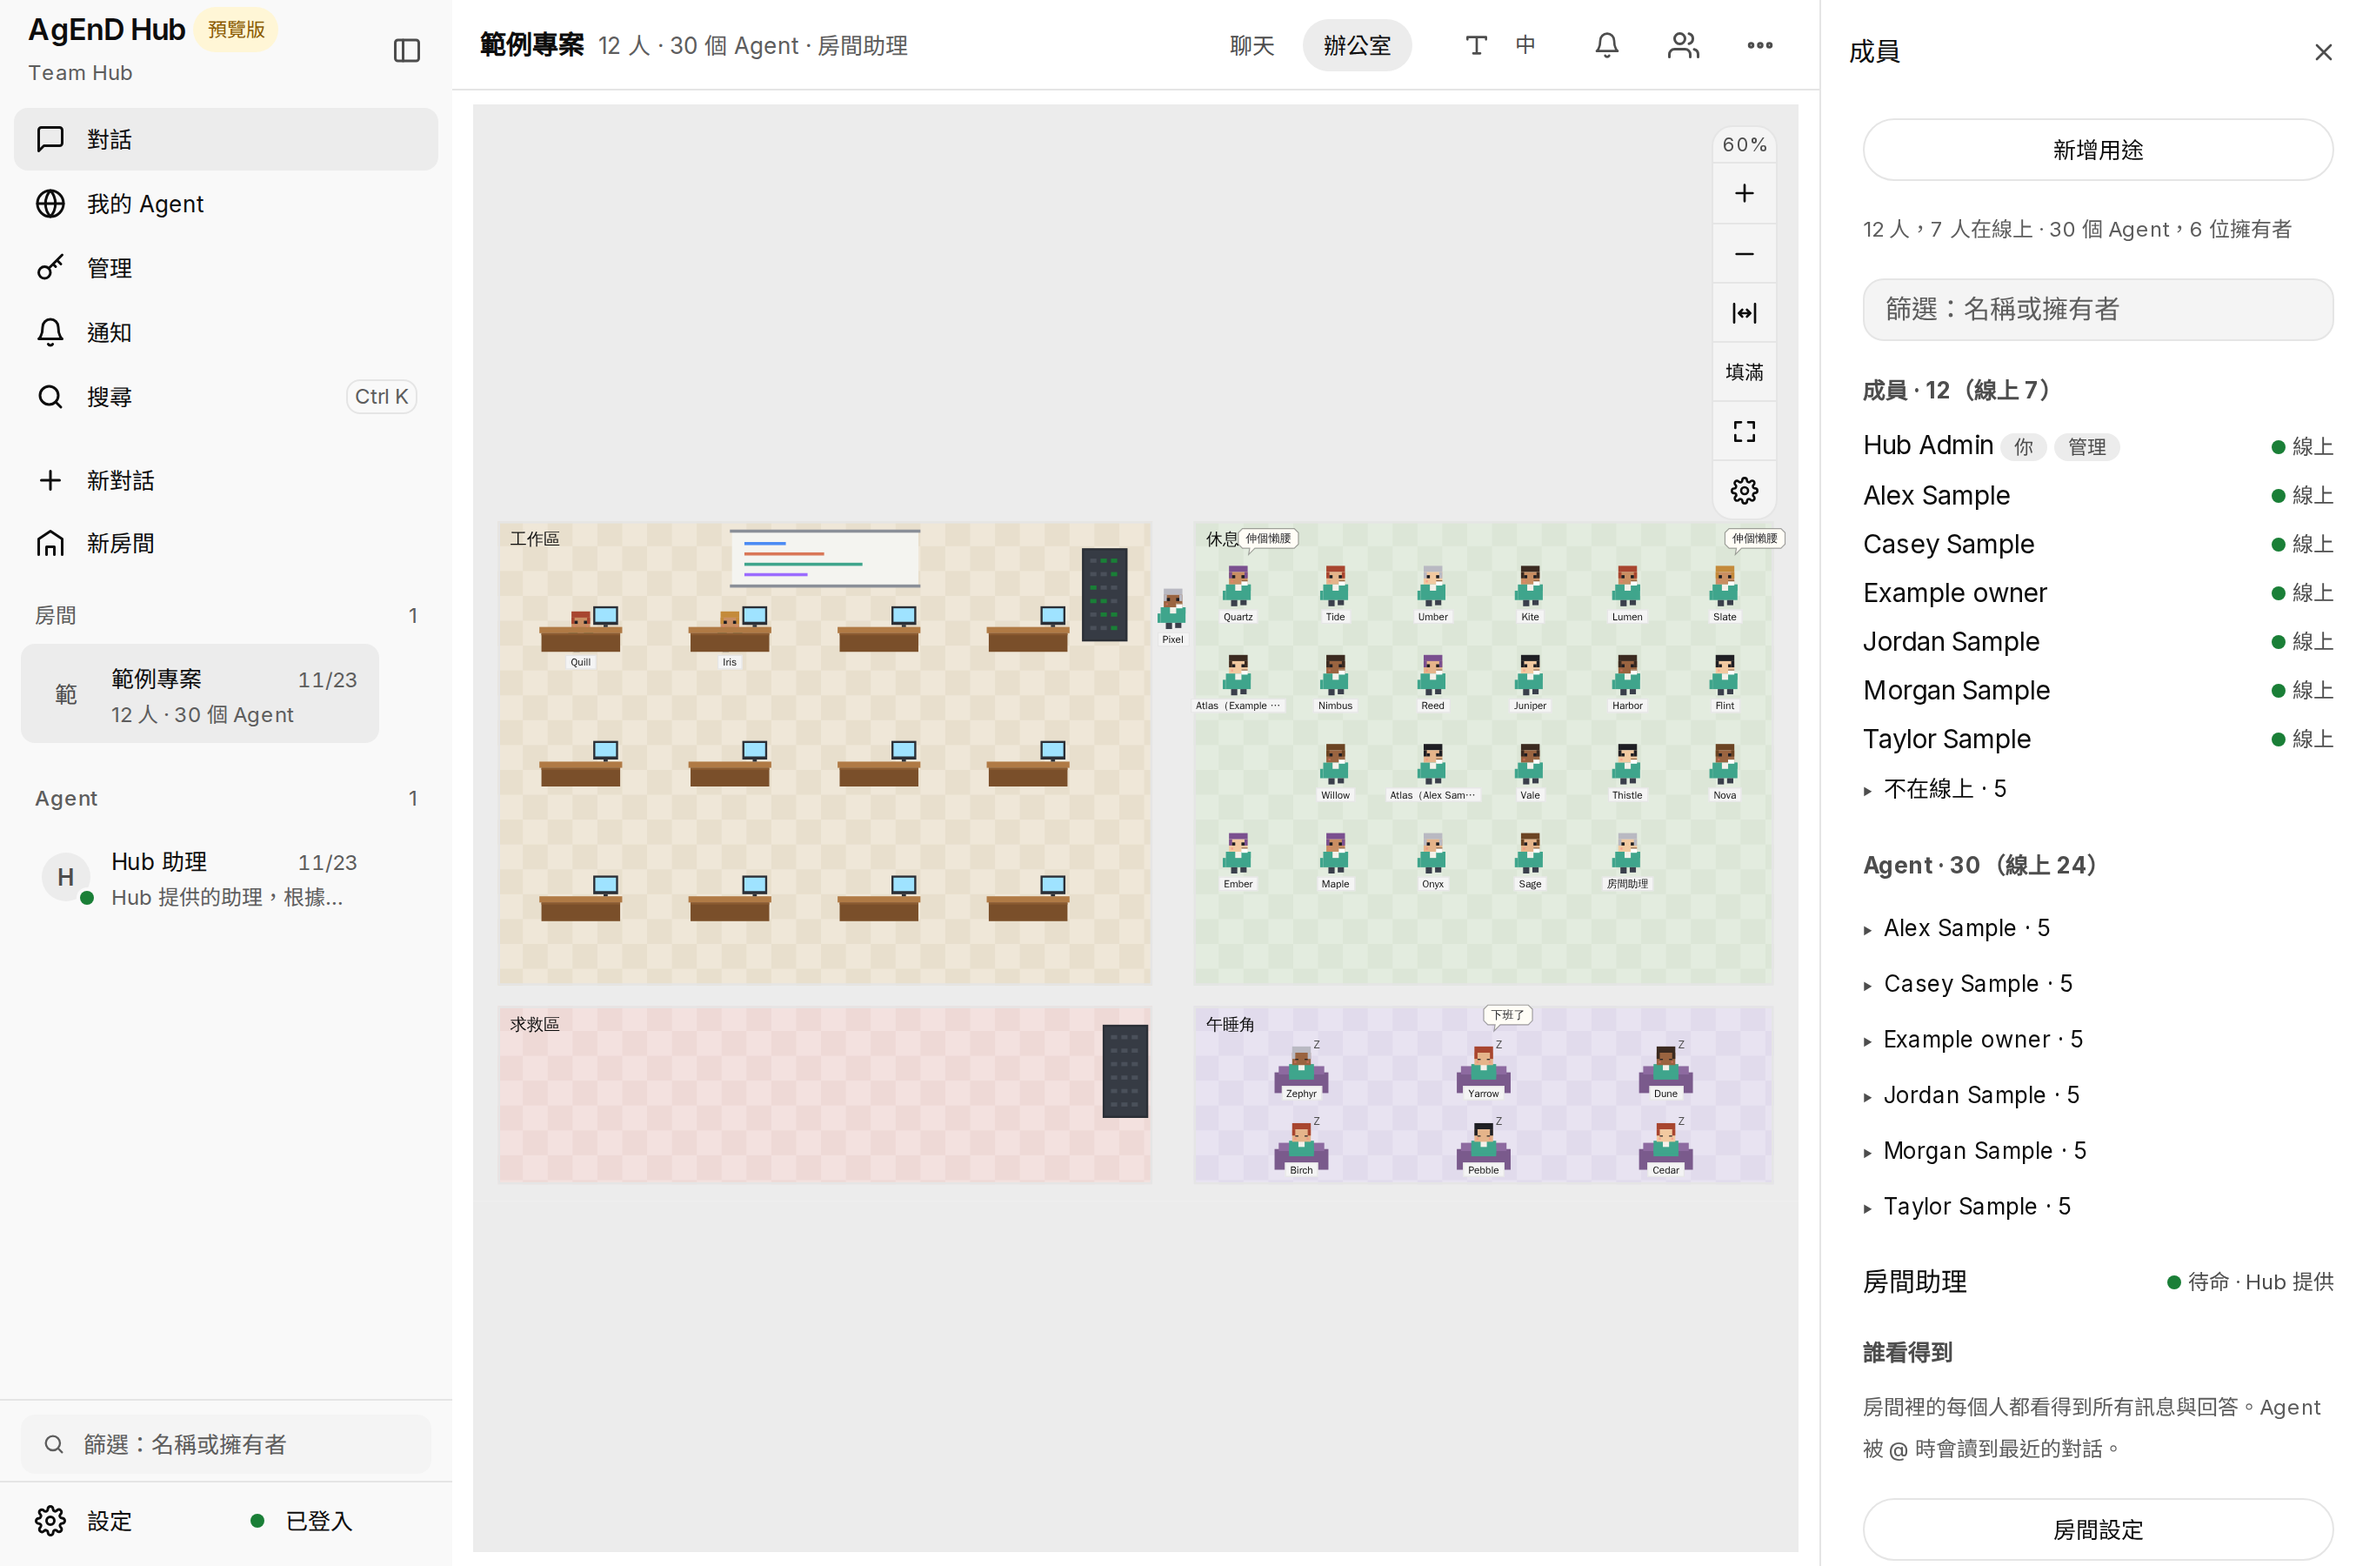
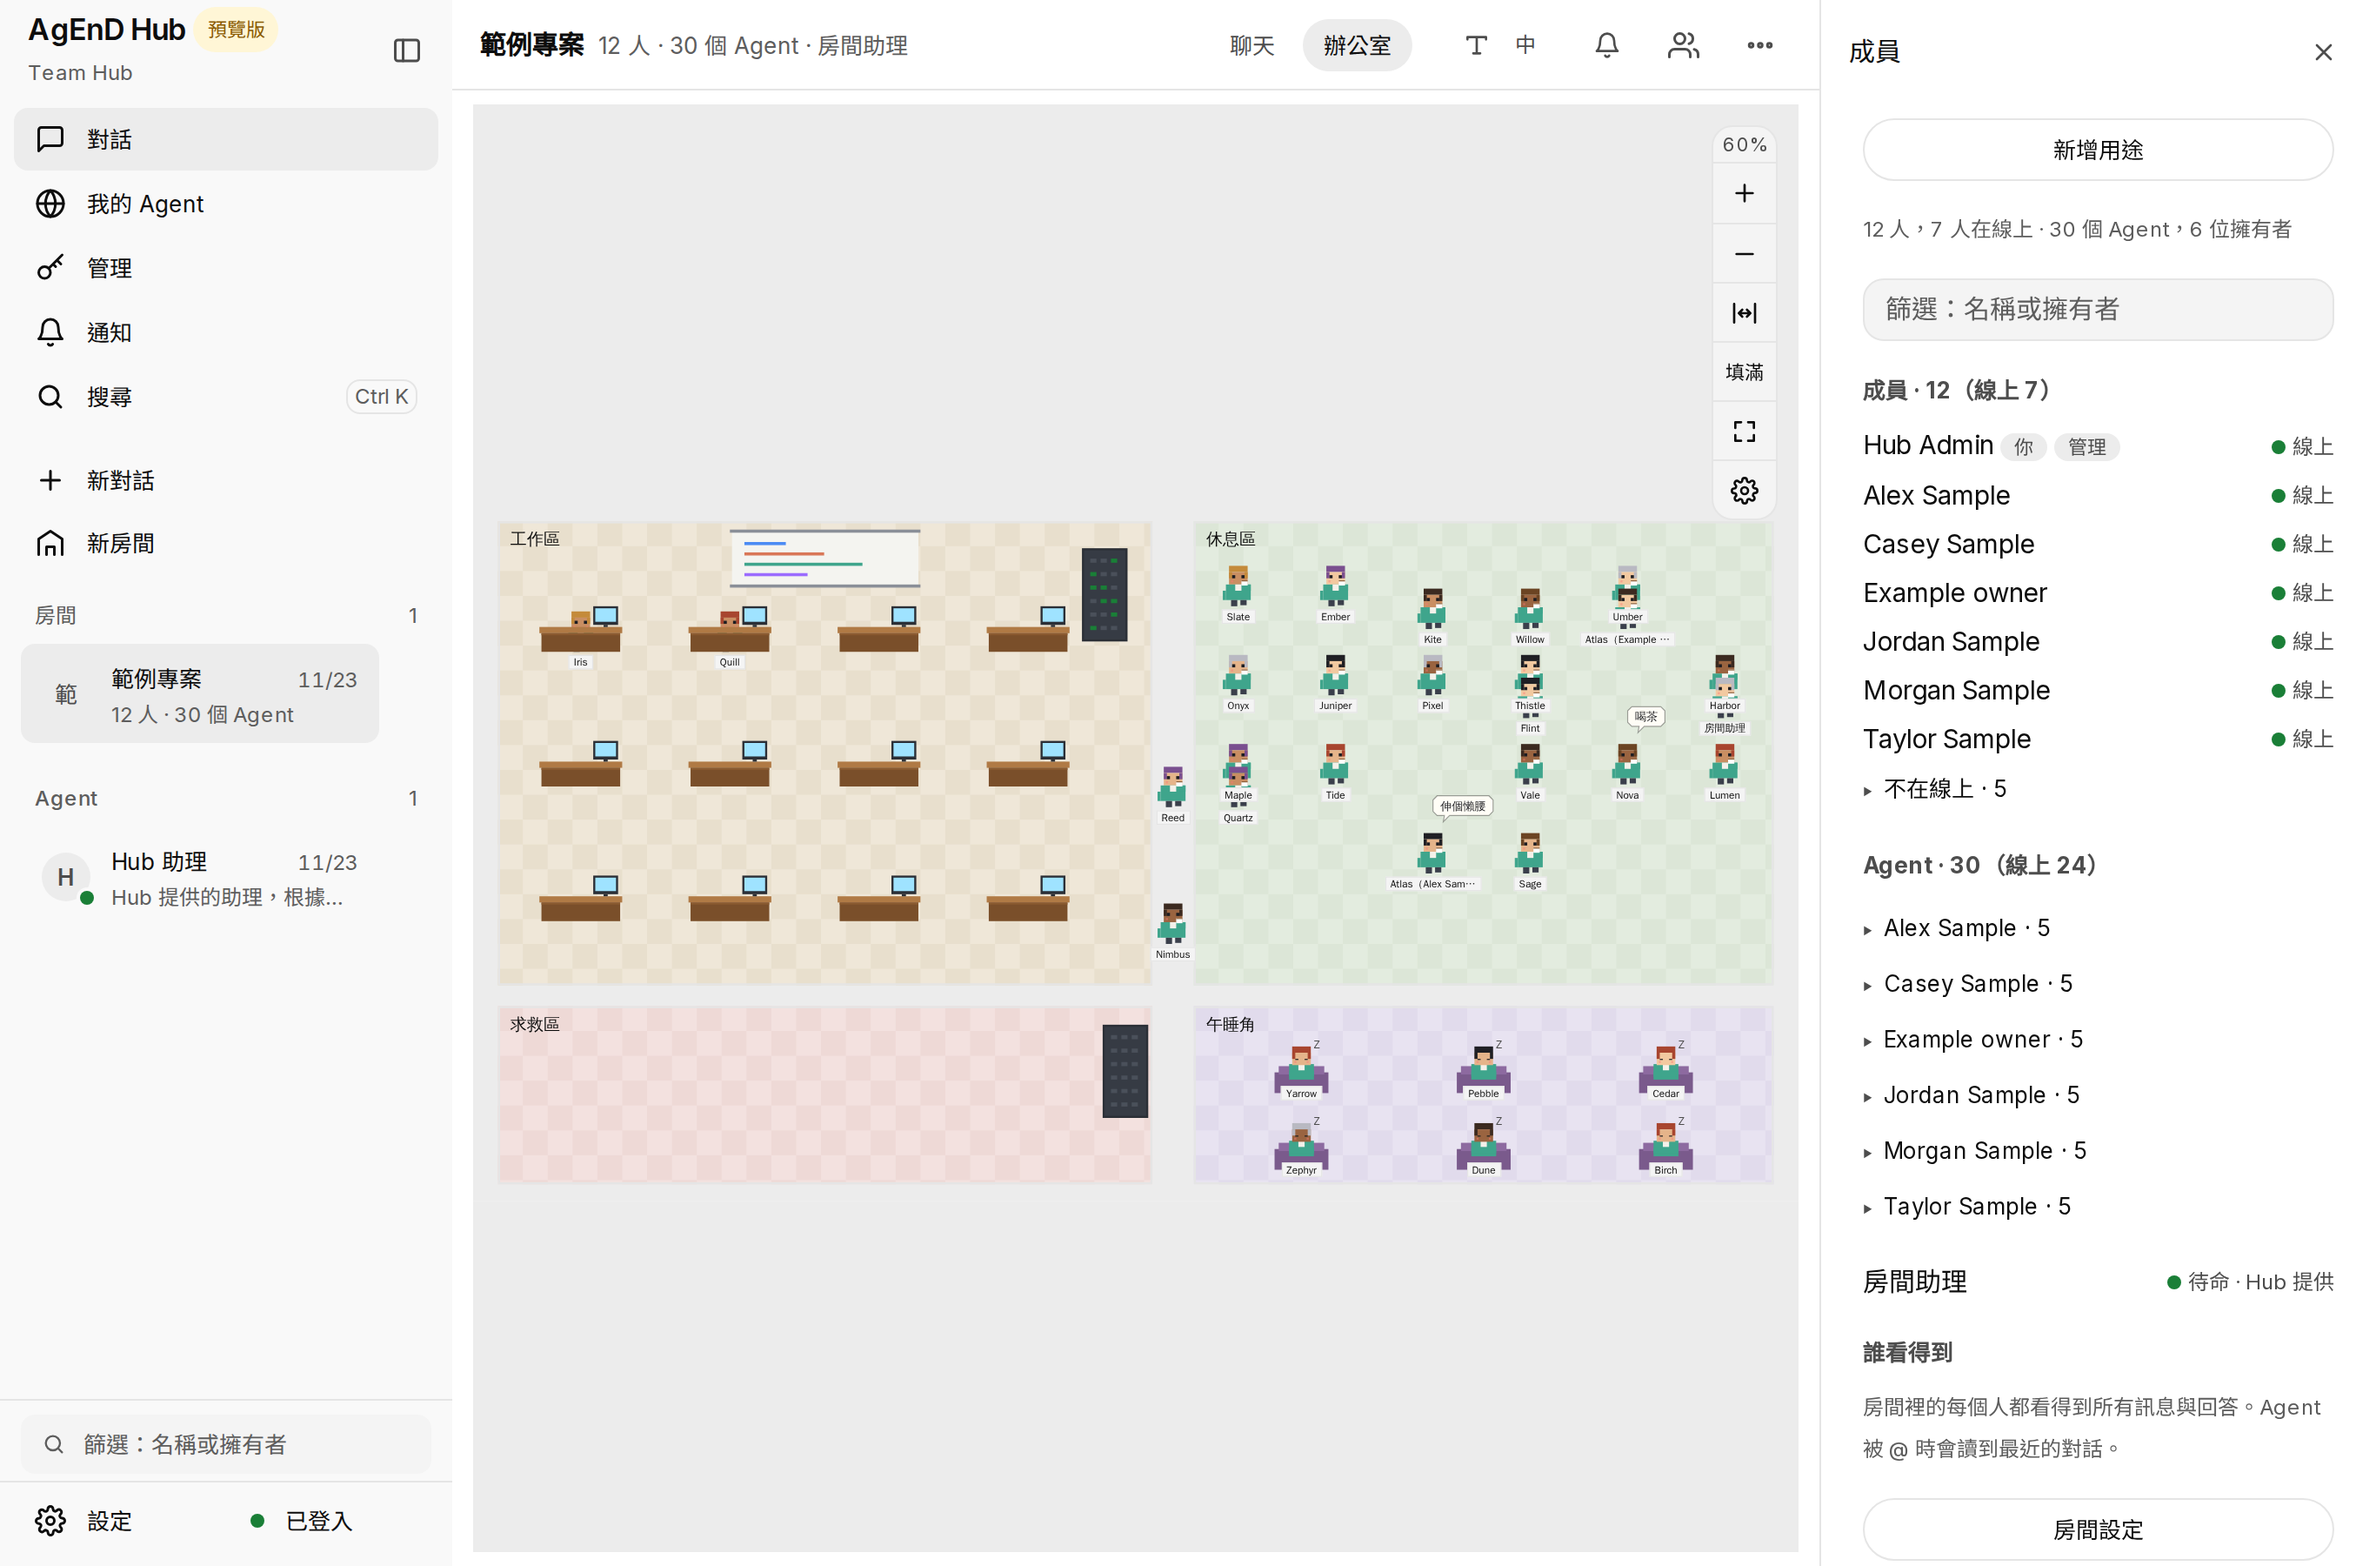
docs(evidence): walk-in and minimap pairs re-taken at 5530e2e5 (#4376 capture check)

diff --git a/docs/evidence/office-labels-m3539/README.md b/docs/evidence/office-labels-m3539/README.md
@@ -3,7 +3,7 @@
 These are captures of the real Hub (HTTPS and SQLite, through the Hub test rig) and its real room office, headless Chromium, taken from two commits:
 
 - **before**: #4370's head `ce5f6556`;
-- **after**: this branch at `a3fc48de`, which already has the help-desk rule (`e2458506`) and the fresh-placement fix. The walk-in pair and the zoomed pair are from `20545610`, which adds the minimap to what tags keep clear of; their before is the same `ce5f6556`. Later commits change nothing in these scenes. `bc82159b` only matters for a style whose calling states fall back to a default or first area, and the Studio styles name theirs.
+- **after**: this branch at `a3fc48de`, which already has the help-desk rule (`e2458506`) and the fresh-placement fix. The walk-in pair and the zoomed pair are from `5530e2e5`, which adds the minimap to what tags keep clear of, slides a tag sideways past such a control instead of dropping it, and keeps bubbles off the area names. Their before is the same `ce5f6556`. Later commits change nothing in these scenes. `bc82159b` only matters for a style whose calling states fall back to a default or first area, and the Studio styles name theirs.
 
 The room has 12 people and 30 agents of 6 owners, plus the room assistant, all with made-up names. Two agents are working, one is paused, and one owner's Fleet is offline, so its 5 agents are stopped and go to the nap corner. Each shot is taken 3 s after the office opens, with normal motion (idle agents stroll).
 
@@ -28,7 +28,7 @@ A scratch probe (not part of this change) recorded every tag the scene drew, eac
 | Name tags overlapping another tag (worst frame per run) | 1–3 pairs in every run (e.g. Yarrow/Pebble, Dune/Cedar, Willow/Flint) | 0 in every frame |
 | A tag on an area's name | 0 | 0 |
 | A tag under the zoom control (including zoomed in) | 0 | 0 (now kept clear by construction) |
-| A tag under the minimap at 150% | Cedar | none |
+| A tag under the minimap at 150% | Cedar (reads 「Ceda」) | none: Cedar's tag beside it |
 | The office's first frame, the clock paused (walk-in pair) | 2 pairs (Studio), 13 (large); 0 of 6 in the nap corner | 0 and 0; 6 of 6 |
 | Nap corner at 3 s: people sent there / drawn there | 6 / 0 (Studio), 6 / 4–5 (large): the stopped walked in from the old seats, through the help desk | 6 / 6 in every run |
 | An idle agent standing in the help desk (求救區), at rest between strolls, in the sampled frames | 2 (Reed, Quartz) | 0 |
